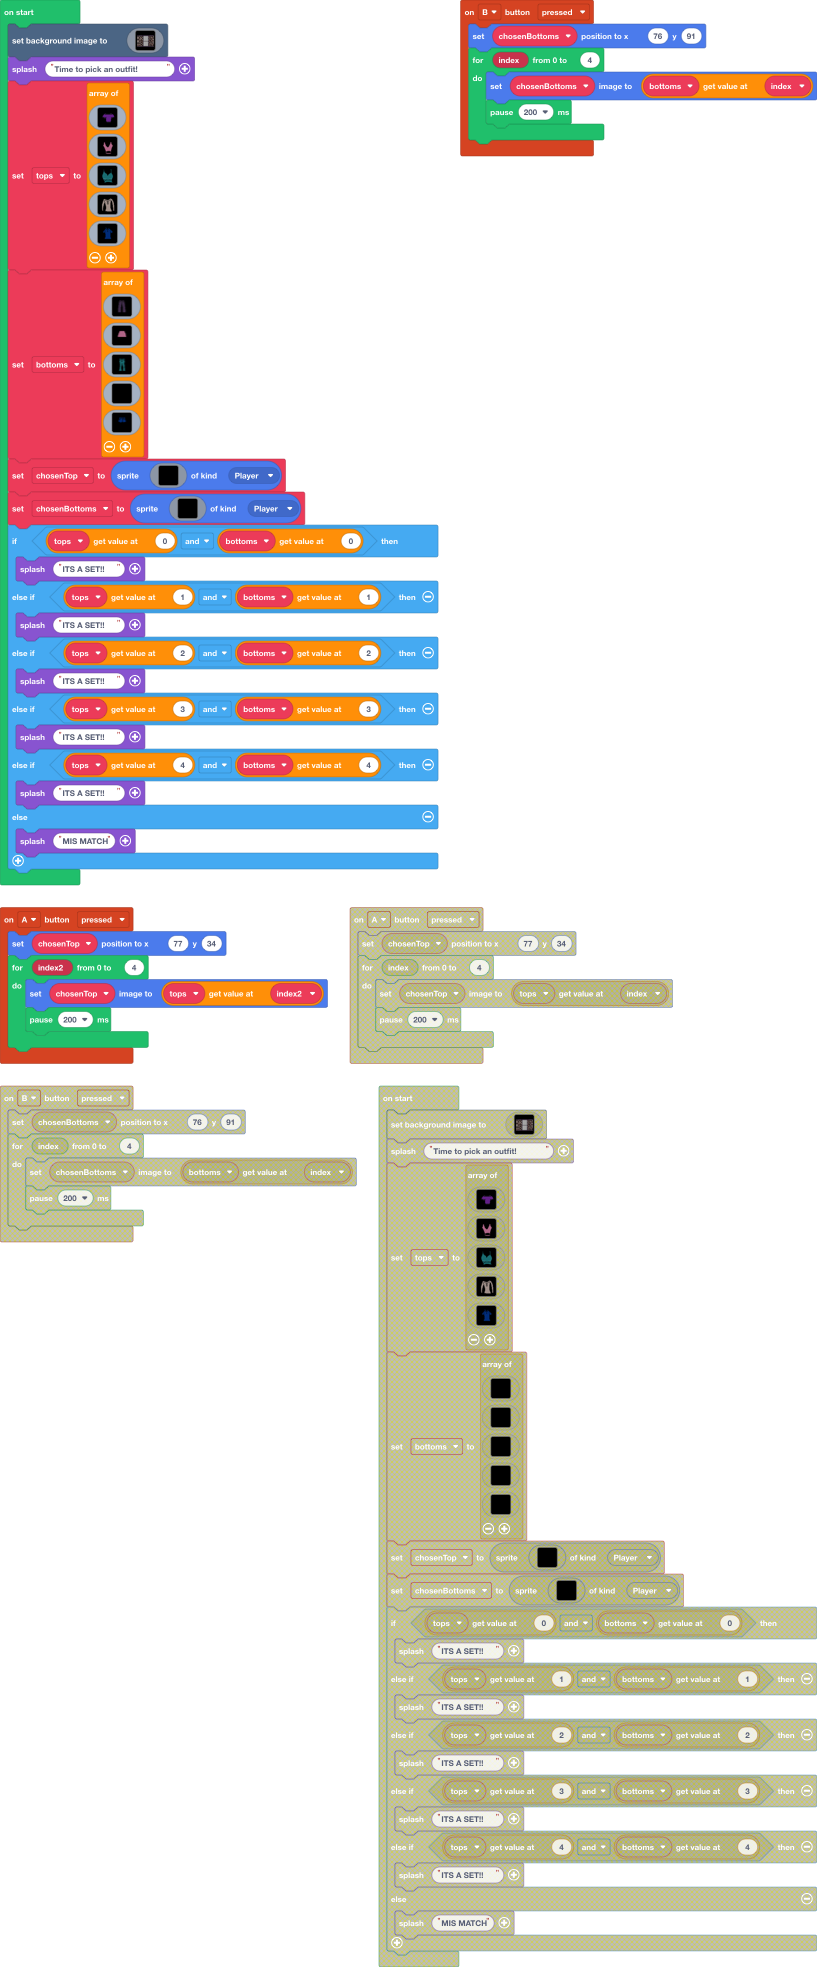
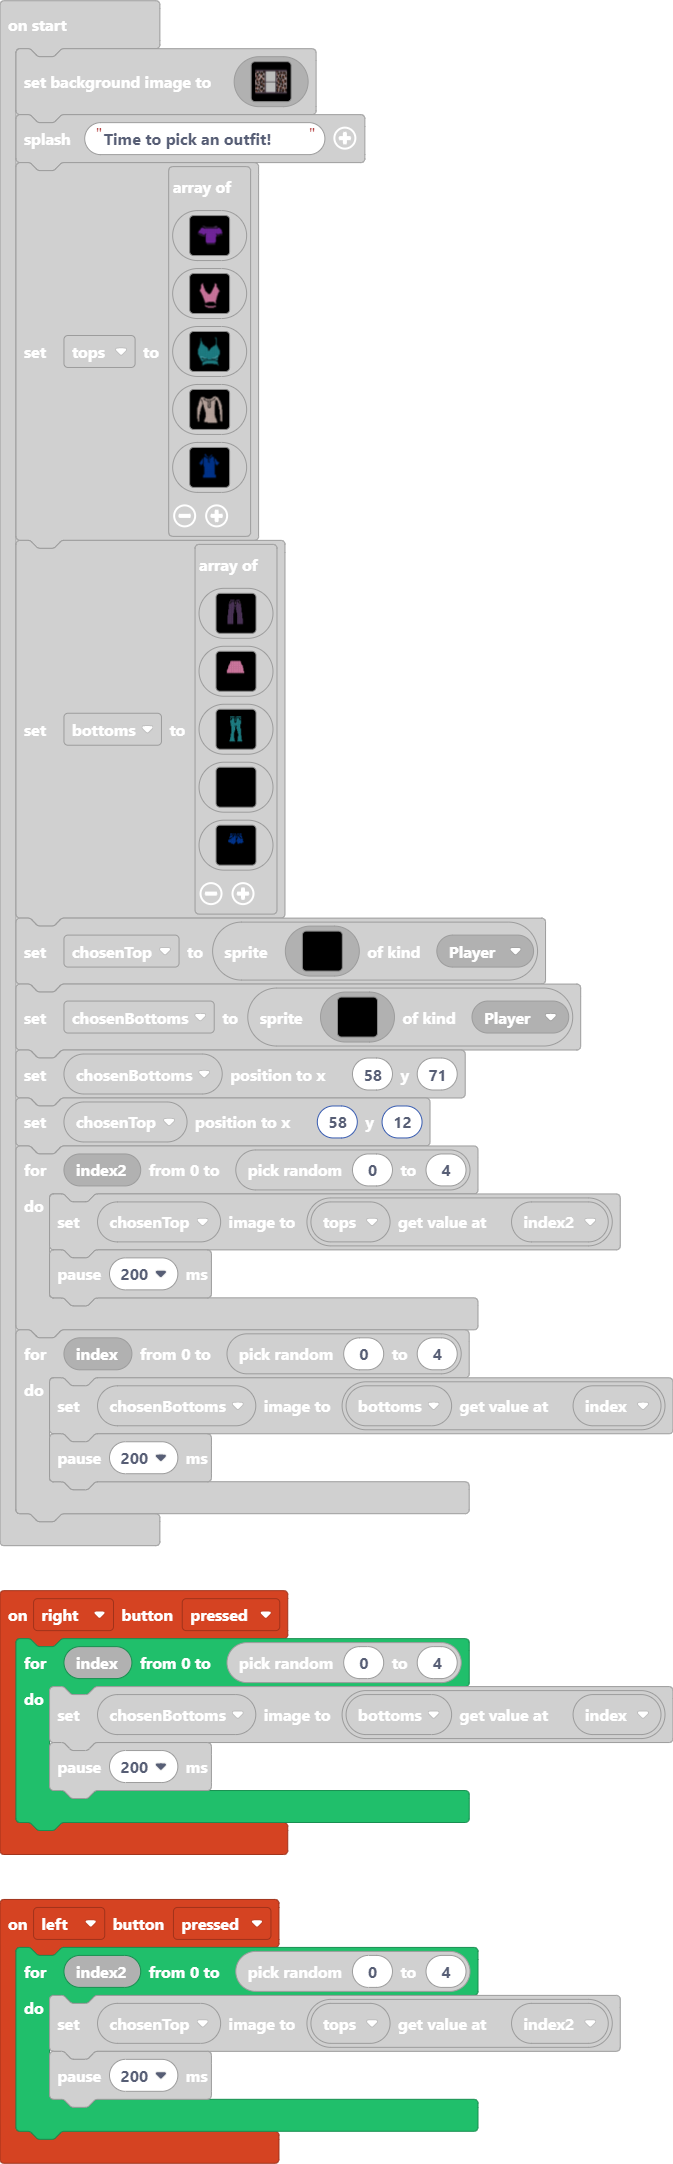
Update main.blocks, main.ts

diff --git a/main.ts b/main.ts
@@ -1,39 +1,13 @@
-controller.B.onEvent(ControllerButtonEvent.Pressed, function () {
-    for (let index = 0; index <= randint(0, 4); index++) {
-        chosenBottoms.setImage(bottoms[index])
-        pause(200)
-    }
-    if (tops[0] && bottoms[0]) {
-        game.splash("ITS A SET!!")
-    } else if (tops[1] && bottoms[1]) {
-        game.splash("ITS A SET!!")
-    } else if (tops[2] && bottoms[2]) {
-        game.splash("ITS A SET!!")
-    } else if (tops[3] && bottoms[3]) {
-        game.splash("ITS A SET!!")
-    } else if (tops[4] && bottoms[4]) {
-        game.splash("ITS A SET!!")
-    } else {
-        game.splash("MIS MATCH")
-    }
-})
-controller.A.onEvent(ControllerButtonEvent.Pressed, function () {
+controller.left.onEvent(ControllerButtonEvent.Pressed, function () {
     for (let index2 = 0; index2 <= randint(0, 4); index2++) {
         chosenTop.setImage(tops[index2])
         pause(200)
     }
-    if (tops[0] && bottoms[0]) {
-        game.splash("ITS A SET!!")
-    } else if (tops[1] && bottoms[1]) {
-        game.splash("ITS A SET!!")
-    } else if (tops[2] && bottoms[2]) {
-        game.splash("ITS A SET!!")
-    } else if (tops[3] && bottoms[3]) {
-        game.splash("ITS A SET!!")
-    } else if (tops[4] && bottoms[4]) {
-        game.splash("ITS A SET!!")
-    } else {
-        game.splash("MIS MATCH")
+})
+controller.right.onEvent(ControllerButtonEvent.Pressed, function () {
+    for (let index = 0; index <= randint(0, 4); index++) {
+        chosenBottoms.setImage(bottoms[index])
+        pause(200)
     }
 })
 let chosenBottoms: Sprite = null
@@ -724,7 +698,7 @@ chosenBottoms = sprites.create(img`
     . . . . . . . . . . . . . . . . 
     `, SpriteKind.Player)
 chosenBottoms.setPosition(58, 71)
-chosenTop.setPosition(61, 20)
+chosenTop.setPosition(58, 12)
 for (let index2 = 0; index2 <= randint(0, 4); index2++) {
     chosenTop.setImage(tops[index2])
     pause(200)
